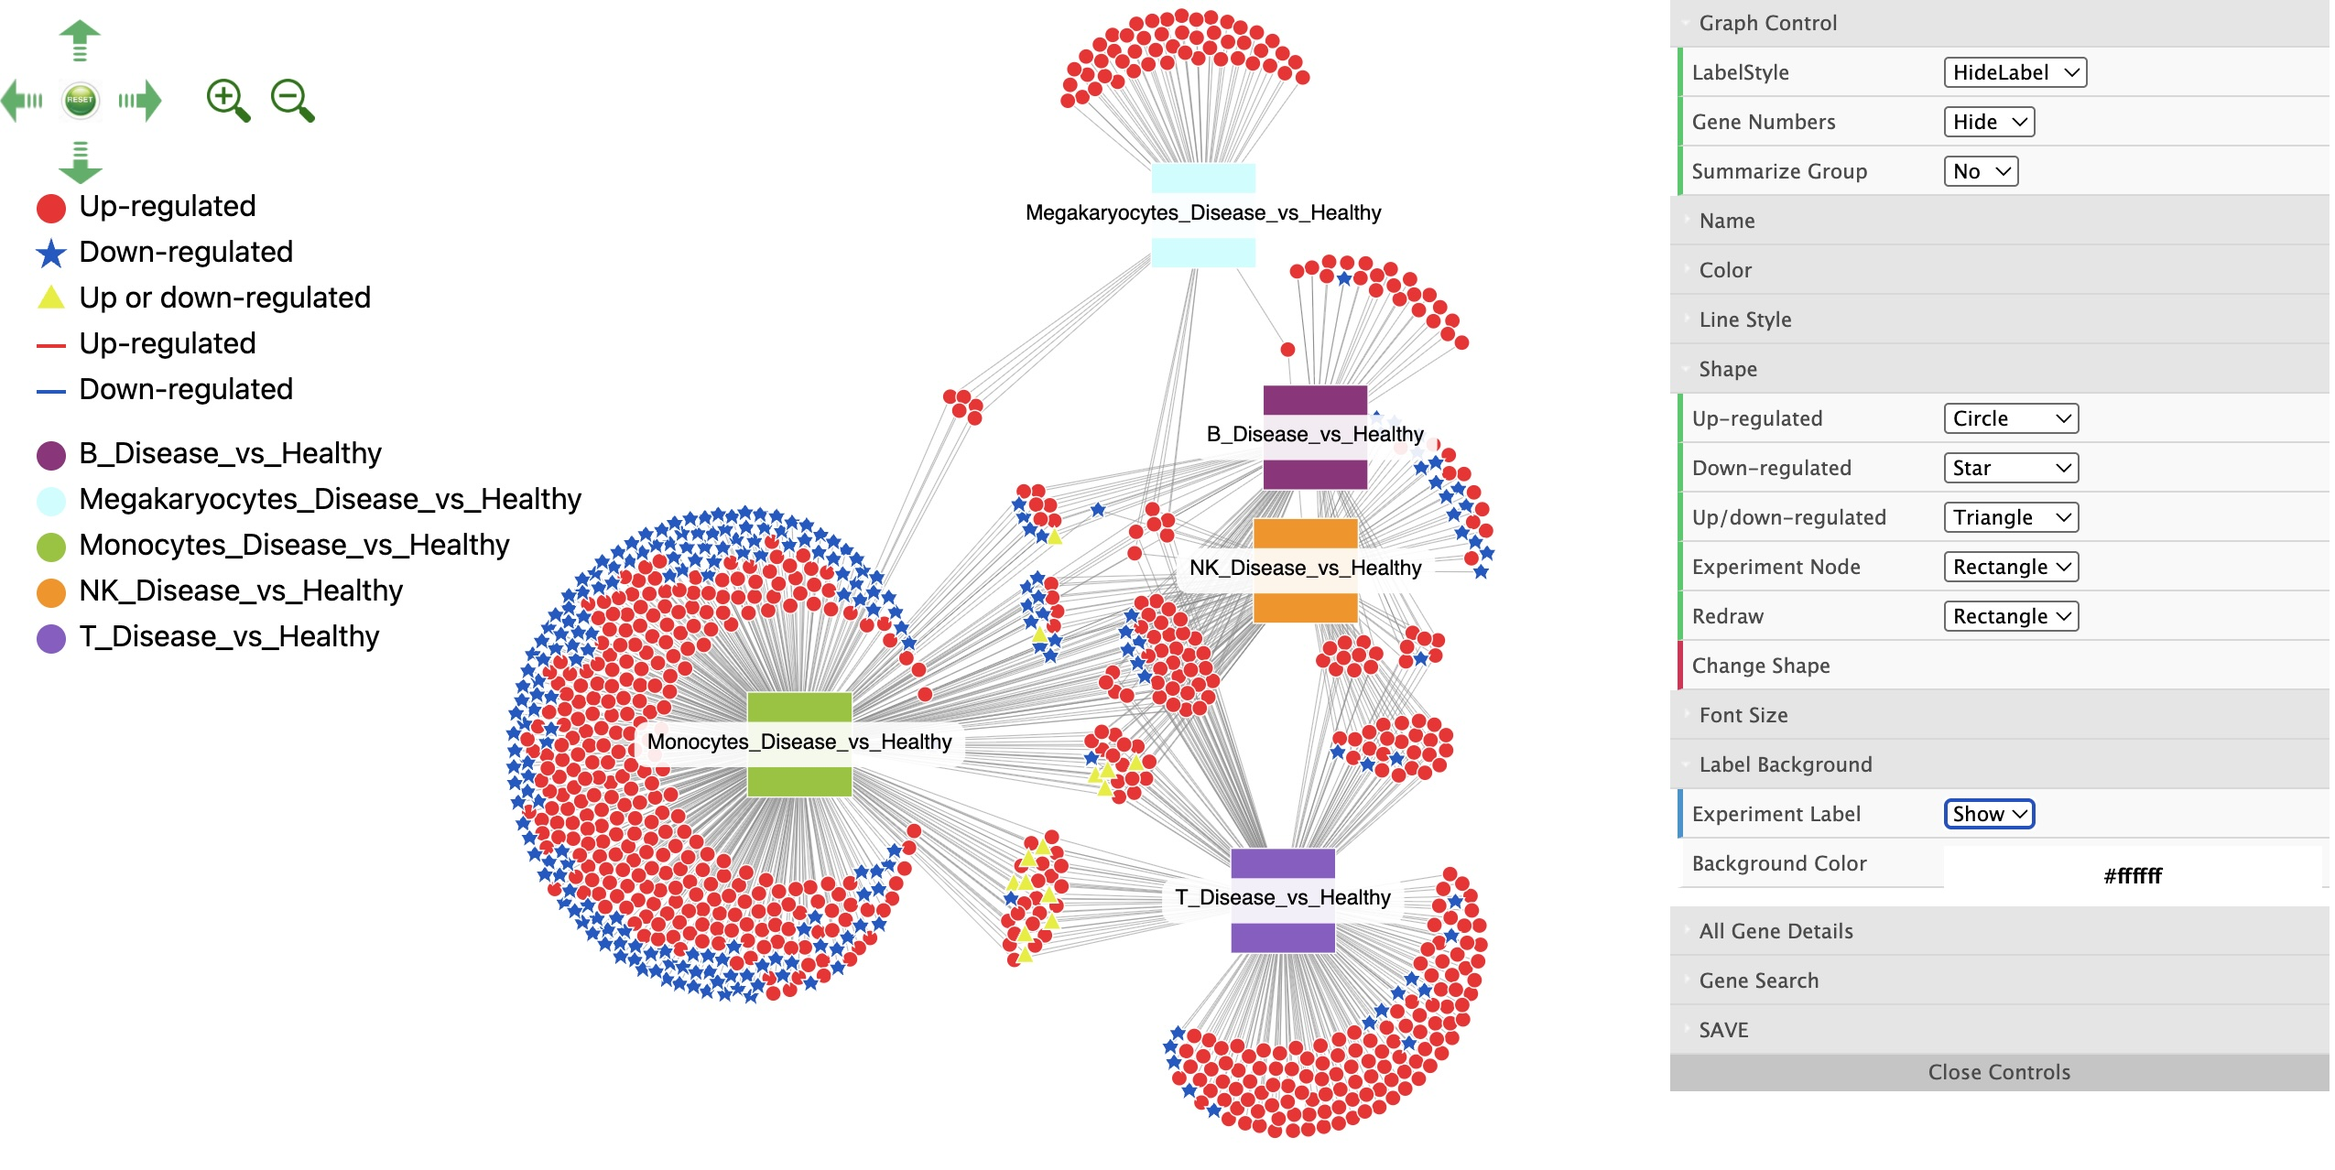
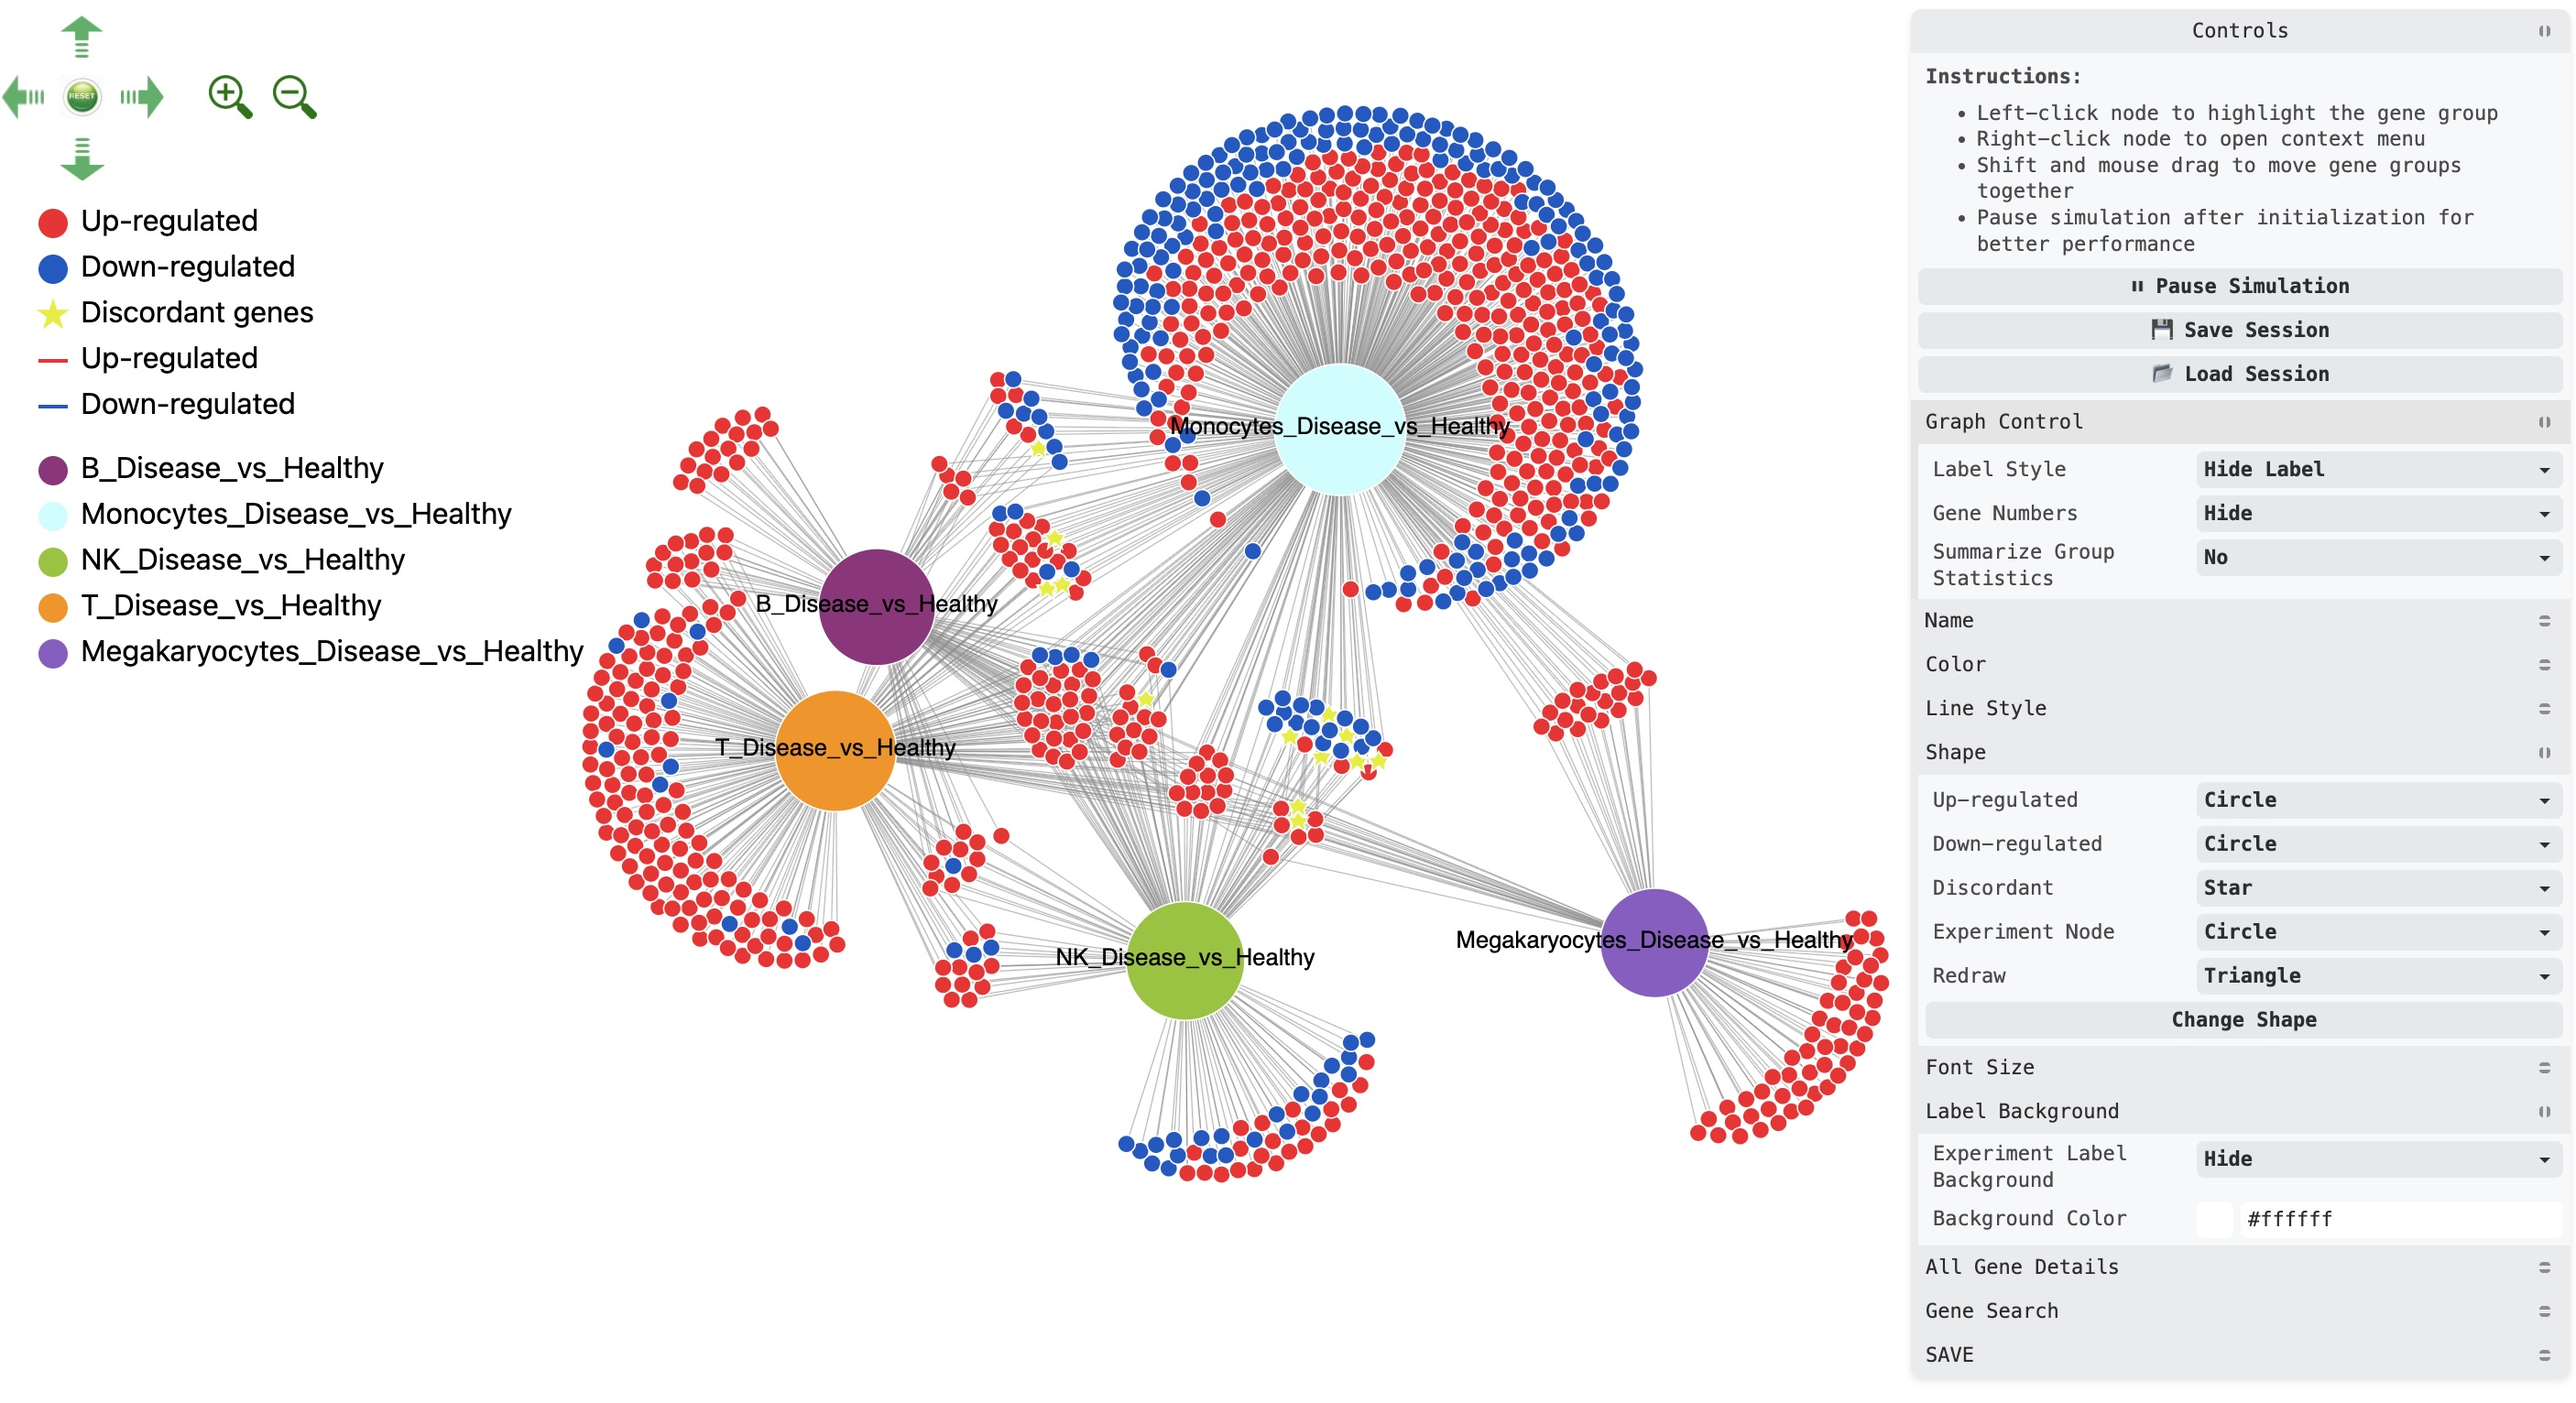
Add session function and update figures

Changed region(s): [[0.0, 0.0, 1.0, 0.9765], [0.8365, 0.6714, 1.0, 0.7629]]

diff --git a/README.md b/README.md
@@ -29,6 +29,7 @@
 - [Visualization & Interaction](#visualization--interaction)
 - [Enrichment Analysis](#enrichment-analysis)
 - [scRNAseq analysis and visualization](#scrnaseq-analysis-and-visualization)
+- [Session Export and Import](#session-export-and-import)
 - [Export Options](#export-options)
 - [Citation](#citation)
 
@@ -113,7 +114,7 @@ An annotated `.h5ad` (H5 AnnData) file of single-cell data is accepted as the in
 4. Click the `H5AD` button to a separate page.
 
 <div align="left">
-  <img src="./images/scRNAseq_loadData_202606.jpg" alt="scRNA data input" width="100%"/>
+  <img src="./images/scRNAseq_loadData_202607.jpg" alt="scRNA data input" width="100%"/>
   <p><em>Figure 4: Interface of scRNAseq data input</em></p>
 </div>
 
@@ -194,7 +195,7 @@ Access detailed gene information by right-clicking nodes and select `Gene detail
 ### KEGG pathway and GO terms
 If users need to check the KEGG pathway or GO terms of a group of genes (for example, regulated genes in group Z versus group D in cell type D), they can choose the `Gene group detail` option after right clicking the node (See figure 12).
 
-The table allows users to select genes either with quick filters of up-, down-regulated genes consistent across the selected groups or discordant genes that have different regulatory directions. Users could also directly select genes in the table manually. Selected genes will be used for downstream analysis, such as enrichment analysis and module score calculation.
+The table allows users to select genes either with quick filters of up-, down-regulated genes consistent across the selected groups, concordant genes that combine consistently up- or down-regulated genes, or discordant genes that have different regulatory directions. Users could also directly select genes in the table manually. Selected genes will be used for downstream analysis, such as enrichment analysis and module score calculation.
 
 <div align="left">
   <img src="./images/scRNAseq_geneDetails.jpg" alt="Gene Pathway" width="100%"/>
@@ -209,7 +210,7 @@ User also can switch different GO enrichment results namely Biological Process (
 Users can select GO terms in the table and update all the visualization and AI interpretation results. Multiple select with pressing the Shift key is supported. Users can sort the table or filter for gene set description or genes.
 
 <div align="left">
-  <img src="./images/GO_table_202604.jpg" alt="GO result table" width="100%"/>
+  <img src="./images/GO_table_202607.jpg" alt="GO result table" width="100%"/>
   <p><em>Figure 13: GO result table</em></p>
 </div>
 
@@ -236,7 +237,7 @@ Similar to GO enrichment, user can perform KEGG pathway analysis by selecting th
 
 Users can select KEGG pathways and update all the visualization and AI interpretation results. Multiple select with pressing the Shift key is supported.
 <div align="left">
-  <img src="./images/KEGG_table_202604.jpg" alt="KEGG result table" width="100%"/>
+  <img src="./images/KEGG_table_202607.jpg" alt="KEGG result table" width="100%"/>
   <p><em>Figure 17: KEGG result table</em></p>
 </div>
 
@@ -277,6 +278,17 @@ From the result table of GO and KEGG enrichment results, users can also view the
 <div align="left">
   <img src="./images/moduleScorePlot_202606.jpg" alt="Module score plot" width="100%"/>
   <p><em>Figure 22: UMAP plot colored by module score</em></p>
+</div>
+
+---
+
+## Session Export and Import
+
+Users can export and download a session file from the menu in the DiVenn graph page to save the graph configuration, including the layout and customized aesthetics. The session file can be loaded from the DiVenn graph page or the front page to restore the graph. Session files need to be used in the same mode as the initial analysis. A session file from the classic mode contains all the necessary information. For scRNA mode, a session file needs to be used with the matching H5AD file.
+
+<div align="left">
+  <img src="./images/session_import.jpg" alt="Module score plot" width="100%"/>
+  <p><em>Figure 23: Session import from the front page</em></p>
 </div>
 
 ---
